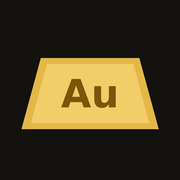
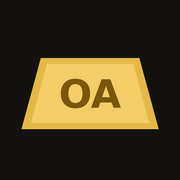
Rename app to Ore to Alloy
Claude-Session: https://claude.ai/code/session_01GhqKwjPLJbzagoF6Sd2ZKS

Changed region(s): [[0.3333, 0.4167, 0.6667, 0.6111]]

diff --git a/index.html b/index.html
@@ -3,22 +3,22 @@
 <head>
 <meta charset="utf-8">
 <meta name="viewport" content="width=device-width, initial-scale=1, viewport-fit=cover">
-<title>Gold Forge</title>
+<title>Ore to Alloy</title>
 <meta name="claude:viewport-fit-sides" content="cover">
 <meta name="description" content="Free metallurgy study app: fire assaying, gold recovery from mine to 99.99% bar, smelting and refining of 34 metals, chemistry, alloys, heat treatment, corrosion, and a glossary.">
 <meta name="theme-color" content="#1E1B16">
 <meta name="apple-mobile-web-app-capable" content="yes">
 <meta name="mobile-web-app-capable" content="yes">
-<meta name="apple-mobile-web-app-title" content="Gold Forge">
+<meta name="apple-mobile-web-app-title" content="Ore to Alloy">
 <meta name="apple-mobile-web-app-status-bar-style" content="black-translucent">
 <link rel="canonical" href="https://cloudstifa1-cpu.github.io/gold-forge/">
 <meta property="og:type" content="website">
-<meta property="og:title" content="Gold Forge — Metallurgy Study App">
+<meta property="og:title" content="Ore to Alloy — Metallurgy Study App">
 <meta property="og:description" content="Free metallurgy study app: fire assaying, gold recovery from mine to 99.99% bar, smelting and refining of 34 metals, chemistry, alloys, heat treatment, corrosion, and a glossary.">
 <meta property="og:url" content="https://cloudstifa1-cpu.github.io/gold-forge/">
 <meta property="og:image" content="https://cloudstifa1-cpu.github.io/gold-forge/icon-512.png">
 <meta name="twitter:card" content="summary">
-<script type="application/ld+json">{"@context": "https://schema.org", "@type": "WebApplication", "name": "Gold Forge", "url": "https://cloudstifa1-cpu.github.io/gold-forge/", "description": "Free metallurgy study app: fire assaying, gold recovery from mine to 99.99% bar, smelting and refining of 34 metals, chemistry, alloys, heat treatment, corrosion, and a glossary.", "applicationCategory": "EducationalApplication", "operatingSystem": "Android, iOS, Windows, macOS", "isAccessibleForFree": true, "offers": {"@type": "Offer", "price": "0", "priceCurrency": "USD"}, "keywords": "metallurgy, fire assay, gold assay, smelting, refining, extractive metallurgy, heat treatment, study guide"}</script>
+<script type="application/ld+json">{"@context": "https://schema.org", "@type": "WebApplication", "name": "Ore to Alloy", "url": "https://cloudstifa1-cpu.github.io/gold-forge/", "description": "Free metallurgy study app: fire assaying, gold recovery from mine to 99.99% bar, smelting and refining of 34 metals, chemistry, alloys, heat treatment, corrosion, and a glossary.", "applicationCategory": "EducationalApplication", "operatingSystem": "Android, iOS, Windows, macOS", "isAccessibleForFree": true, "offers": {"@type": "Offer", "price": "0", "priceCurrency": "USD"}, "keywords": "metallurgy, fire assay, gold assay, smelting, refining, extractive metallurgy, heat treatment, study guide"}</script>
 <link rel="manifest" href="manifest.webmanifest">
 <link rel="icon" href="icon-192.png" type="image/png">
 <link rel="apple-touch-icon" href="apple-touch-icon.png">
@@ -177,11 +177,11 @@ button{cursor:pointer}
 <body>
 <div class="bar"><div class="wrap">
 <button class="back" id="back" aria-label="Back" hidden>‹</button>
-<button class="brand" id="brand" aria-label="Home">Gold <span>Forge</span></button>
+<button class="brand" id="brand" aria-label="Home">Ore to <span>Alloy</span></button>
 <div class="sz"><button id="aminus" aria-label="Smaller text">A−</button><button id="aplus" aria-label="Bigger text">A+</button></div>
 </div></div>
 <main id="app"></main>
-<noscript><p style="padding:16px">Gold Forge needs JavaScript turned on.</p></noscript>
+<noscript><p style="padding:16px">Ore to Alloy needs JavaScript turned on.</p></noscript>
 <script>
 window.GF={sections:[],glossary:[],sec:function(s){this.sections.push(s);}};
 
@@ -212,7 +212,7 @@ Most real plants use more than one. A typical gold plant is hydromet (cyanide le
 - **Physical metallurgy** — what happens inside the metal after (structure, alloys, heat treatment, properties)
 - **Mechanical metallurgy** — how metal behaves under force (forming, testing, failure)
 `},
-{t:'How to Use Gold Forge', b:`
+{t:'How to Use Ore to Alloy', b:`
 - Tap a section on the home screen, then a topic.
 - Use **Search** to find any term, metal, mineral, or formula.
 - **A−** and **A+** at the top change the text size. Your choice is remembered.
@@ -5233,7 +5233,7 @@ var ICON={
 
 function showHome(){
   var rows=S.map(function(s,i){return '<li><button data-go="s.'+s.id+'"><span class="n">'+String(i+1).padStart(2,'0')+'</span><span class="tx"><span class="tt">'+esc(s.title)+'</span><span class="sb">'+esc(s.sub)+' · '+s.topics.length+' topics</span></span><span class="ch">›</span></button></li>';}).join('');
-  view('<section class="mark"><div class="stamp"><b>Gold Forge</b><small>FINE · 999.9 · AU</small></div><p>Metallurgy study guide: assaying, extraction, smelting, refining, and the metals themselves.</p></section>'+
+  view('<section class="mark"><div class="stamp"><b>Ore to Alloy</b><small>ASSAY · SMELT · REFINE</small></div><p>Metallurgy study guide: assaying, extraction, smelting, refining, and the metals themselves.</p></section>'+
   '<div class="tools">'+
   '<button data-go="search">'+ICON.search+'Search</button>'+
   '<button data-go="glossary">'+ICON.glossary+'Glossary</button>'+

diff --git a/privacy.html b/privacy.html
@@ -1,10 +1,10 @@
 <!doctype html><html lang="en"><head><meta charset="utf-8"><meta name="viewport" content="width=device-width, initial-scale=1">
-<title>Gold Forge Privacy Policy</title><style>body{font:18px/1.6 system-ui,sans-serif;max-width:40rem;margin:0 auto;padding:24px 16px;background:#14120E;color:#F7F2E7}a{color:#E3B847}h1{color:#E3B847}</style></head><body>
-<h1>Gold Forge Privacy Policy</h1><p>Last updated: October 2026</p>
-<p>Gold Forge is a free study app. It does not collect, store, sell, or share any personal information.</p>
+<title>Ore to Alloy Privacy Policy</title><style>body{font:18px/1.6 system-ui,sans-serif;max-width:40rem;margin:0 auto;padding:24px 16px;background:#14120E;color:#F7F2E7}a{color:#E3B847}h1{color:#E3B847}</style></head><body>
+<h1>Ore to Alloy Privacy Policy</h1><p>Last updated: October 2026</p>
+<p>Ore to Alloy is a free study app. It does not collect, store, sell, or share any personal information.</p>
 <ul><li>No accounts, sign-ups, or logins.</li><li>No ads, analytics, or tracking.</li>
 <li>Settings like text size, saved topics, and your last search are stored only on your own device (browser local storage). They never leave your device, and clearing your browser data deletes them.</li>
 <li>The app loads its fonts from Google Fonts, which receives a normal web request (such as your IP address) when fonts download.</li></ul>
 <p>The app is free for anyone and is suitable for all ages.</p>
 <p>Questions: open an issue at <a href="https://github.com/cloudstifa1-cpu/gold-forge/issues">github.com/cloudstifa1-cpu/gold-forge/issues</a>.</p>
-<p><a href="./">Back to Gold Forge</a></p></body></html>
+<p><a href="./">Back to Ore to Alloy</a></p></body></html>

diff --git a/source/src/app.js b/source/src/app.js
@@ -66,7 +66,7 @@ var ICON={
 
 function showHome(){
   var rows=S.map(function(s,i){return '<li><button data-go="s.'+s.id+'"><span class="n">'+String(i+1).padStart(2,'0')+'</span><span class="tx"><span class="tt">'+esc(s.title)+'</span><span class="sb">'+esc(s.sub)+' · '+s.topics.length+' topics</span></span><span class="ch">›</span></button></li>';}).join('');
-  view('<section class="mark"><div class="stamp"><b>Gold Forge</b><small>FINE · 999.9 · AU</small></div><p>Metallurgy study guide: assaying, extraction, smelting, refining, and the metals themselves.</p></section>'+
+  view('<section class="mark"><div class="stamp"><b>Ore to Alloy</b><small>ASSAY · SMELT · REFINE</small></div><p>Metallurgy study guide: assaying, extraction, smelting, refining, and the metals themselves.</p></section>'+
   '<div class="tools">'+
   '<button data-go="search">'+ICON.search+'Search</button>'+
   '<button data-go="glossary">'+ICON.glossary+'Glossary</button>'+

diff --git a/source/src/data/01-foundations.js b/source/src/data/01-foundations.js
@@ -25,7 +25,7 @@ Most real plants use more than one. A typical gold plant is hydromet (cyanide le
 - **Physical metallurgy** — what happens inside the metal after (structure, alloys, heat treatment, properties)
 - **Mechanical metallurgy** — how metal behaves under force (forming, testing, failure)
 `},
-{t:'How to Use Gold Forge', b:`
+{t:'How to Use Ore to Alloy', b:`
 - Tap a section on the home screen, then a topic.
 - Use **Search** to find any term, metal, mineral, or formula.
 - **A−** and **A+** at the top change the text size. Your choice is remembered.

diff --git a/sw.js b/sw.js
@@ -1,4 +1,4 @@
-const CACHE='gf-v3';
+const CACHE='oa-v4';
 const CORE=['./','index.html','privacy.html','manifest.webmanifest','icon-192.png','icon-512.png','icon-maskable-512.png','apple-touch-icon.png'];
 self.addEventListener('install',e=>{e.waitUntil(caches.open(CACHE).then(c=>c.addAll(CORE)).then(()=>self.skipWaiting()));});
 self.addEventListener('activate',e=>{e.waitUntil(caches.keys().then(ks=>Promise.all(ks.filter(k=>k!==CACHE).map(k=>caches.delete(k)))).then(()=>self.clients.claim()));});

diff --git a/source/build.py b/source/build.py
@@ -1,5 +1,5 @@
 #!/usr/bin/env python3
-"""Builds Gold Forge: dist/ (GitHub Pages PWA) and artifact/gold-forge.html (preview)."""
+"""Builds Ore to Alloy: dist/ (GitHub Pages PWA) and artifact/gold-forge.html (preview)."""
 import glob, json, os, shutil
 from PIL import Image, ImageDraw, ImageFont
 
@@ -7,7 +7,7 @@ ROOT = os.path.dirname(os.path.abspath(__file__))
 SRC = os.path.join(ROOT, 'src')
 DIST = os.path.dirname(ROOT)  # repo root (served by GitHub Pages)
 ART = os.path.join(ROOT, 'artifact')
-VERSION = 'gf-v3'
+VERSION = 'oa-v4'
 
 def read(p):
     with open(p, encoding='utf-8') as f:
@@ -27,16 +27,16 @@ FONTS = ('<link rel="preconnect" href="https://fonts.googleapis.com">'
 
 BODY = '''<div class="bar"><div class="wrap">
 <button class="back" id="back" aria-label="Back" hidden>‹</button>
-<button class="brand" id="brand" aria-label="Home">Gold <span>Forge</span></button>
+<button class="brand" id="brand" aria-label="Home">Ore to <span>Alloy</span></button>
 <div class="sz"><button id="aminus" aria-label="Smaller text">A−</button><button id="aplus" aria-label="Bigger text">A+</button></div>
 </div></div>
 <main id="app"></main>
-<noscript><p style="padding:16px">Gold Forge needs JavaScript turned on.</p></noscript>
+<noscript><p style="padding:16px">Ore to Alloy needs JavaScript turned on.</p></noscript>
 '''
 
 SITE = 'https://cloudstifa1-cpu.github.io/gold-forge/'
 DESC = 'Free metallurgy study app: fire assaying, gold recovery from mine to 99.99% bar, smelting and refining of 34 metals, chemistry, alloys, heat treatment, corrosion, and a glossary.'
-HEAD_COMMON = ('<title>Gold Forge</title>\n'
+HEAD_COMMON = ('<title>Ore to Alloy</title>\n'
                '<meta name="claude:viewport-fit-sides" content="cover">\n'
                '<meta name="description" content="' + DESC + '">\n')
 
@@ -48,16 +48,16 @@ pwa = ('<!doctype html>\n<html lang="en">\n<head>\n<meta charset="utf-8">\n'
        '<meta name="theme-color" content="#1E1B16">\n'
        '<meta name="apple-mobile-web-app-capable" content="yes">\n'
        '<meta name="mobile-web-app-capable" content="yes">\n'
-       '<meta name="apple-mobile-web-app-title" content="Gold Forge">\n'
+       '<meta name="apple-mobile-web-app-title" content="Ore to Alloy">\n'
        '<meta name="apple-mobile-web-app-status-bar-style" content="black-translucent">\n'
        '<link rel="canonical" href="' + SITE + '">\n'
        '<meta property="og:type" content="website">\n'
-       '<meta property="og:title" content="Gold Forge — Metallurgy Study App">\n'
+       '<meta property="og:title" content="Ore to Alloy — Metallurgy Study App">\n'
        '<meta property="og:description" content="' + DESC + '">\n'
        '<meta property="og:url" content="' + SITE + '">\n'
        '<meta property="og:image" content="' + SITE + 'icon-512.png">\n'
        '<meta name="twitter:card" content="summary">\n'
-       '<script type="application/ld+json">' + json.dumps({"@context":"https://schema.org","@type":"WebApplication","name":"Gold Forge","url":SITE,"description":DESC,"applicationCategory":"EducationalApplication","operatingSystem":"Android, iOS, Windows, macOS","isAccessibleForFree":True,"offers":{"@type":"Offer","price":"0","priceCurrency":"USD"},"keywords":"metallurgy, fire assay, gold assay, smelting, refining, extractive metallurgy, heat treatment, study guide"}) + '</script>\n'
+       '<script type="application/ld+json">' + json.dumps({"@context":"https://schema.org","@type":"WebApplication","name":"Ore to Alloy","url":SITE,"description":DESC,"applicationCategory":"EducationalApplication","operatingSystem":"Android, iOS, Windows, macOS","isAccessibleForFree":True,"offers":{"@type":"Offer","price":"0","priceCurrency":"USD"},"keywords":"metallurgy, fire assay, gold assay, smelting, refining, extractive metallurgy, heat treatment, study guide"}) + '</script>\n'
        '<link rel="manifest" href="manifest.webmanifest">\n'
        '<link rel="icon" href="icon-192.png" type="image/png">\n'
        '<link rel="apple-touch-icon" href="apple-touch-icon.png">\n'
@@ -67,7 +67,7 @@ with open(os.path.join(DIST, 'index.html'), 'w', encoding='utf-8') as f:
     f.write(pwa)
 
 manifest = {
-    "name": "Gold Forge", "short_name": "Gold Forge",
+    "name": "Ore to Alloy", "short_name": "Ore to Alloy",
     "id": "./", "lang": "en", "dir": "ltr", "description": DESC,
     "categories": ["education", "books", "reference"],
     "screenshots": [{"src": "screenshots/%d.png" % i, "sizes": "1080x1920", "type": "image/png", "form_factor": "narrow"} for i in range(1, 5)],
@@ -124,9 +124,9 @@ def icon(size, pad_ratio, path):
             font = ImageFont.truetype(fp, int(h * 0.55)); break
     if font is None:
         font = ImageFont.load_default()
-    tb = d.textbbox((0, 0), 'Au', font=font)
+    tb = d.textbbox((0, 0), 'OA', font=font)
     tw, th = tb[2] - tb[0], tb[3] - tb[1]
-    d.text((cx - tw/2 - tb[0], cy - th/2 - tb[1]), 'Au', fill=(122, 86, 10, 255), font=font)
+    d.text((cx - tw/2 - tb[0], cy - th/2 - tb[1]), 'OA', fill=(122, 86, 10, 255), font=font)
     im.resize((size, size), Image.LANCZOS).convert('RGB').save(path)
 
 icon(192, 0.12, os.path.join(DIST, 'icon-192.png'))
@@ -134,7 +134,7 @@ icon(512, 0.12, os.path.join(DIST, 'icon-512.png'))
 icon(512, 0.22, os.path.join(DIST, 'icon-maskable-512.png'))
 icon(180, 0.12, os.path.join(DIST, 'apple-touch-icon.png'))
 
-readme = '''# Gold Forge
+readme = '''# Ore to Alloy
 
 Metallurgy study app: assaying (fire assay), gold recovery from mine to 99.99% bar, extraction and smelting of every major metal, chemistry, alloys, heat treatment, forming, corrosion, safety, and a glossary.
 
@@ -164,15 +164,15 @@ with open(os.path.join(DIST, 'sitemap.xml'), 'w') as f:
             '<url><loc>' + SITE + '</loc><changefreq>monthly</changefreq><priority>1.0</priority></url>\n'
             '<url><loc>' + SITE + 'privacy.html</loc><changefreq>yearly</changefreq><priority>0.3</priority></url>\n</urlset>\n')
 privacy = '''<!doctype html><html lang="en"><head><meta charset="utf-8"><meta name="viewport" content="width=device-width, initial-scale=1">
-<title>Gold Forge Privacy Policy</title><style>body{font:18px/1.6 system-ui,sans-serif;max-width:40rem;margin:0 auto;padding:24px 16px;background:#14120E;color:#F7F2E7}a{color:#E3B847}h1{color:#E3B847}</style></head><body>
-<h1>Gold Forge Privacy Policy</h1><p>Last updated: October 2026</p>
-<p>Gold Forge is a free study app. It does not collect, store, sell, or share any personal information.</p>
+<title>Ore to Alloy Privacy Policy</title><style>body{font:18px/1.6 system-ui,sans-serif;max-width:40rem;margin:0 auto;padding:24px 16px;background:#14120E;color:#F7F2E7}a{color:#E3B847}h1{color:#E3B847}</style></head><body>
+<h1>Ore to Alloy Privacy Policy</h1><p>Last updated: October 2026</p>
+<p>Ore to Alloy is a free study app. It does not collect, store, sell, or share any personal information.</p>
 <ul><li>No accounts, sign-ups, or logins.</li><li>No ads, analytics, or tracking.</li>
 <li>Settings like text size, saved topics, and your last search are stored only on your own device (browser local storage). They never leave your device, and clearing your browser data deletes them.</li>
 <li>The app loads its fonts from Google Fonts, which receives a normal web request (such as your IP address) when fonts download.</li></ul>
 <p>The app is free for anyone and is suitable for all ages.</p>
 <p>Questions: open an issue at <a href="https://github.com/cloudstifa1-cpu/gold-forge/issues">github.com/cloudstifa1-cpu/gold-forge/issues</a>.</p>
-<p><a href="./">Back to Gold Forge</a></p></body></html>'''
+<p><a href="./">Back to Ore to Alloy</a></p></body></html>'''
 with open(os.path.join(DIST, 'privacy.html'), 'w') as f:
     f.write(privacy)
 

diff --git a/README.md b/README.md
@@ -1,4 +1,4 @@
-# Gold Forge
+# Ore to Alloy
 
 Metallurgy study app: assaying (fire assay), gold recovery from mine to 99.99% bar, extraction and smelting of every major metal, chemistry, alloys, heat treatment, forming, corrosion, safety, and a glossary.
 
